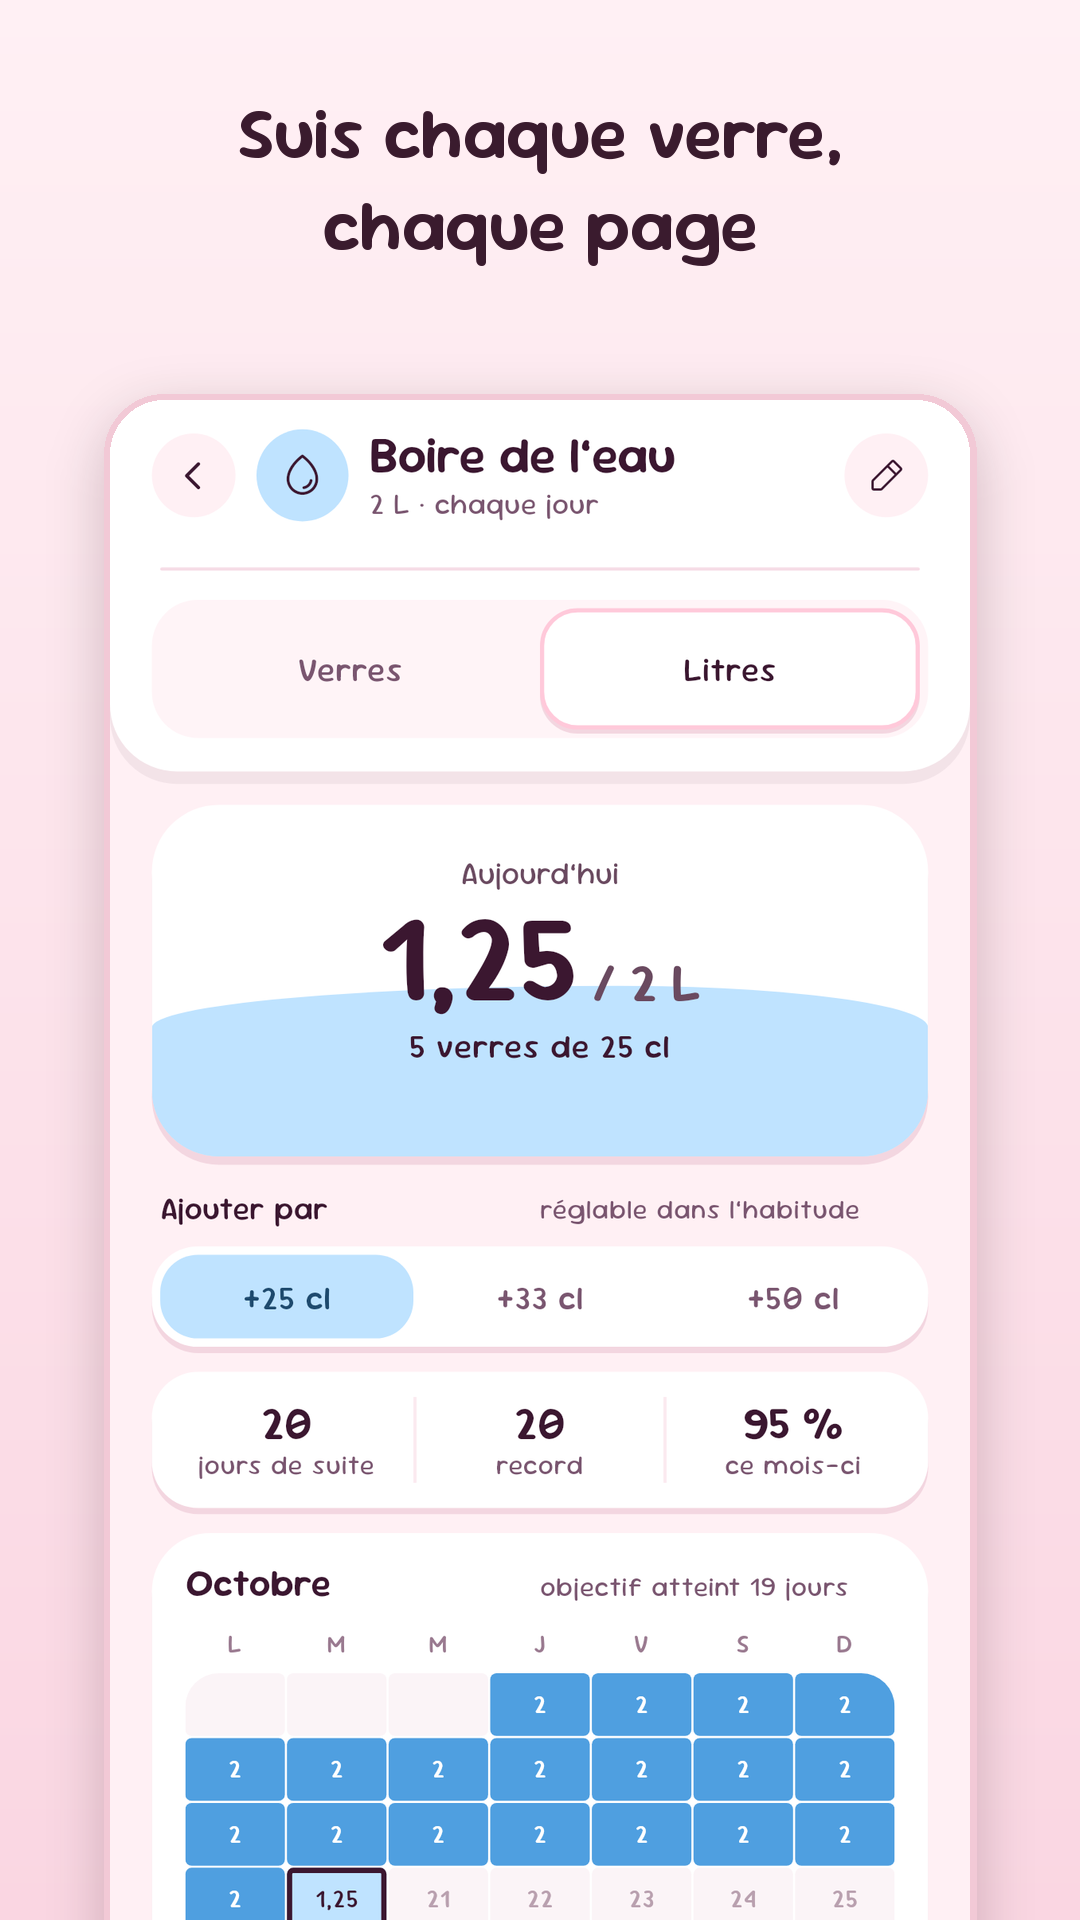
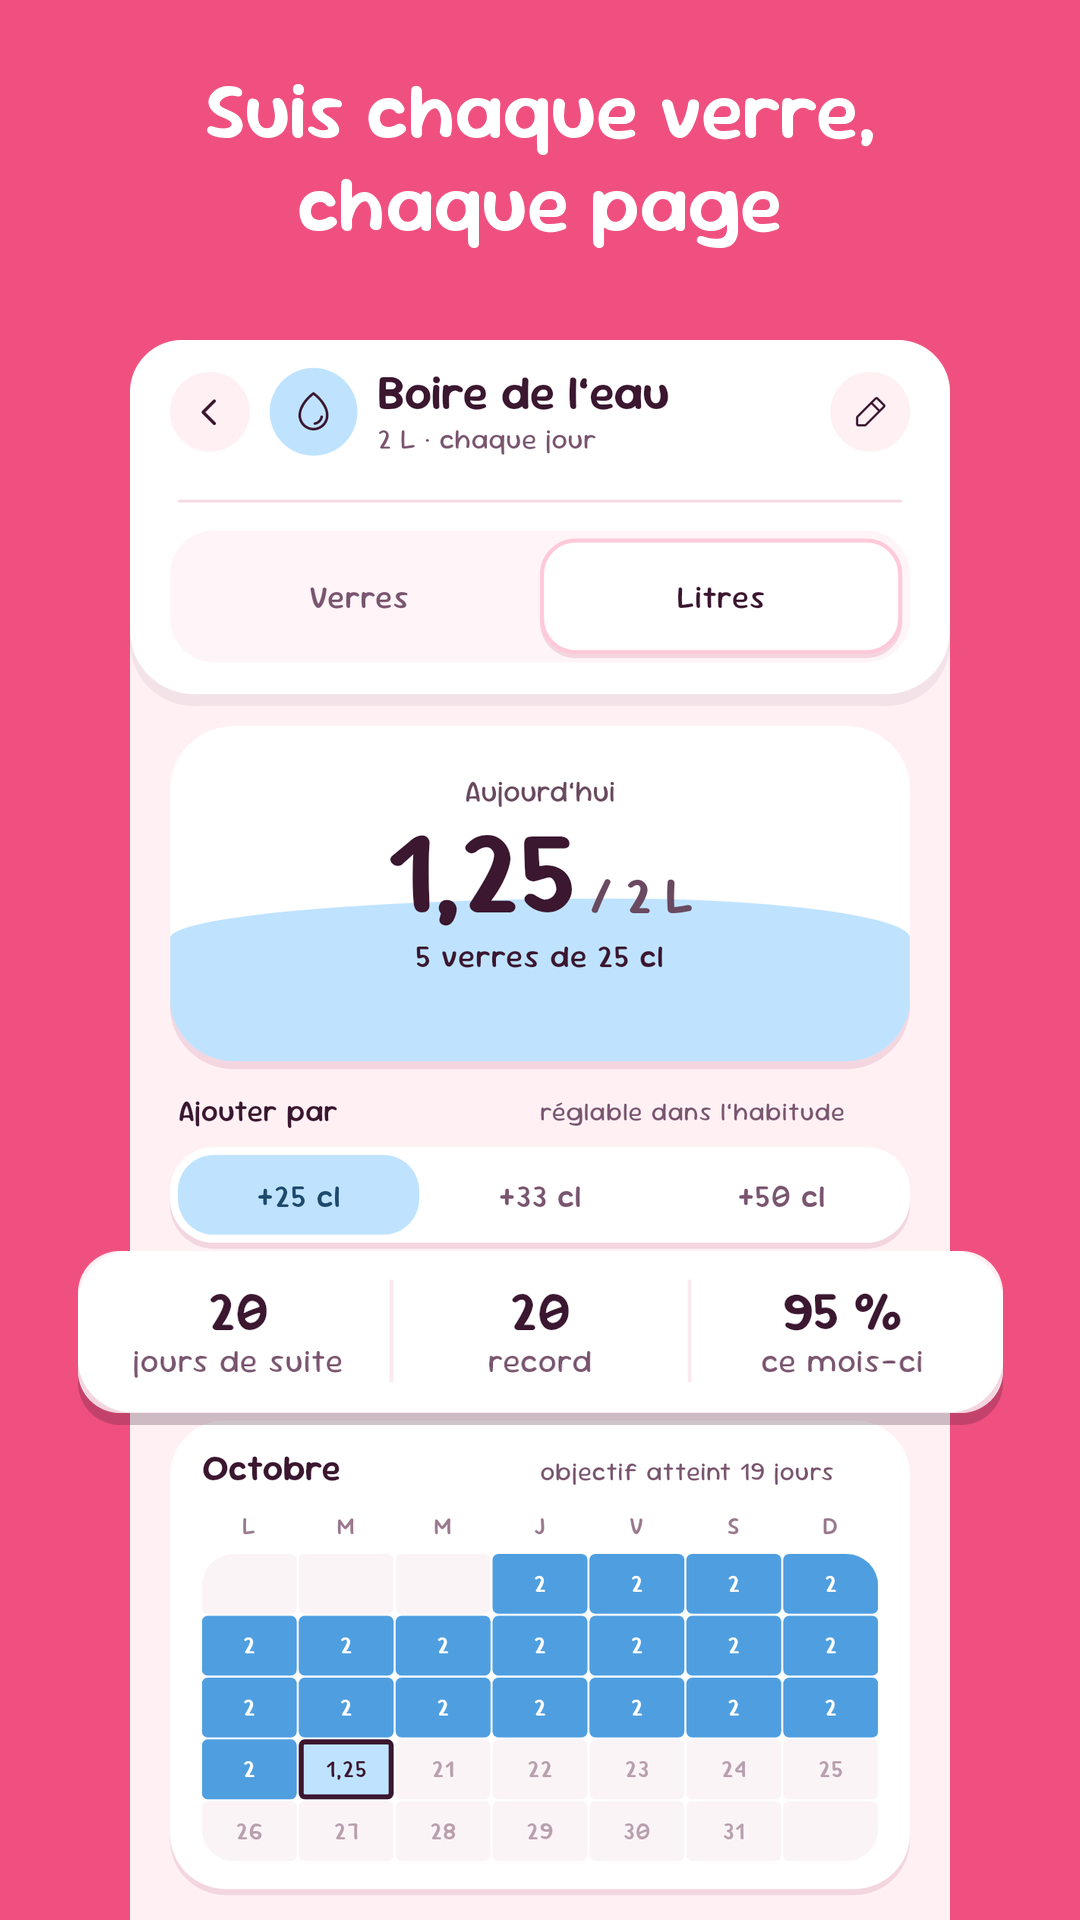
feat(store): nouveaux visuels Play, direction pop-out
Feature graphic centrée sur le slogan, sans copie de l'icône, et captures
sur fond rose avec un élément réel de l'appli agrandi sur chacune. Les
légendes ne portent plus d'argument de prix, conformément aux consignes
Play sur les éléments graphiques.

frame.py vérifie la limite de 20 % des légendes, la largeur des lignes,
le format et la taille de chaque image.

diff --git a/tool/store/frame.py b/tool/store/frame.py
@@ -8,7 +8,7 @@ Reads build/store/raw/{fr,en}/*.png, writes docs/store/.
 
 from pathlib import Path
 
-from PIL import Image, ImageDraw, ImageFilter, ImageFont
+from PIL import Image, ImageDraw, ImageFont
 
 ROOT = Path(__file__).resolve().parents[2]
 RAW = ROOT / "build/store/raw"
@@ -16,120 +16,147 @@ OUT = ROOT / "docs/store"
 FONT = ROOT / "assets/fonts/SourGummy-SemiBold.ttf"
 ICON = ROOT / "assets/icon/icon.png"
 
-BG_TOP, BG_BOTTOM = (255, 240, 244), (250, 214, 226)
-INK = (58, 27, 46)
-ACCENT, ACCENT_DEEP = (224, 89, 126), (196, 62, 104)
-EDGE = (242, 201, 214)
+ACCENT, ACCENT_DEEP = (240, 80, 127), (201, 61, 104)
+POP_SHADOW = (59, 23, 48, 64)
+LILAC, SKY, MINT, LEMON, PEACH = (
+    (220, 200, 255),
+    (191, 227, 255),
+    (182, 240, 210),
+    (255, 240, 154),
+    (255, 203, 164),
+)
 
+# Play guidance: no price or ranking claims ("Free", "#1"…) in these images.
 CAPTIONS = {
     "fr": {
-        "01-today": "Tes habitudes du jour, en un coup d’œil",
-        "02-timer": "Un minuteur pour chaque séance",
-        "03-detail": "Suis chaque verre, chaque page",
-        "04-progress": "Regarde tes progrès grandir",
-        "05-trophies": "Badges, défis et séries à débloquer",
-        "06-create": "Une nouvelle habitude en 3 étapes",
+        "01-today": "Maintiens appuyé.\nEncore un pas de fait.",
+        "02-timer": "Chaque minute compte\npour ta semaine",
+        "03-detail": "Suis chaque verre,\nchaque page",
+        "04-progress": "Regarde tes\nprogrès grandir",
+        "05-trophies": "Badges, défis et séries\nà débloquer",
+        "06-create": "Une nouvelle habitude\nen 3 étapes",
     },
     "en": {
-        "01-today": "Today’s habits at a glance",
-        "02-timer": "A timer for every session",
-        "03-detail": "Track every glass, every page",
-        "04-progress": "Watch your progress grow",
-        "05-trophies": "Badges, challenges and streaks",
-        "06-create": "A new habit in 3 steps",
+        "01-today": "Press and hold.\nOne more step done.",
+        "02-timer": "Every minute counts\ntoward your week",
+        "03-detail": "Track every glass,\nevery page",
+        "04-progress": "Watch your\nprogress grow",
+        "05-trophies": "Badges, challenges\nand streaks",
+        "06-create": "A new habit\nin 3 steps",
     },
 }
 TAGLINE = {
-    "fr": "Petites habitudes, grandes séries",
-    "en": "Small steps, lasting habits",
+    "fr": "Petites habitudes,\ngrandes séries",
+    "en": "Small steps,\nlasting habits",
 }
 
+# UI element enlarged out of each screen: raw box, corner radius, zoom.
+POPS = {
+    "01-today": ((53, 699, 1027, 866), 84, 0.95),
+    "02-timer": ((53, 1602, 1027, 1866), 44, 0.95),
+    "03-detail": ((53, 1222, 1027, 1392), 44, 0.95),
+    "04-progress": ((53, 741, 1027, 1016), 44, 0.92),
+    # Wraps a line above the week bars in French, which pushes them down.
+    ("fr", "04-progress"): ((53, 796, 1027, 1071), 44, 0.92),
+    "05-trophies": ((553, 509, 1027, 678), 44, 1.0),
+    "06-create": ((53, 1276, 1027, 1418), 44, 0.95),
+}
+
+# Edge pills of the feature graphic: x, y, colour.
+PILLS = [
+    (-80, 44, LILAC),
+    (-130, 172, LEMON),
+    (-60, 372, MINT),
+    (860, 64, SKY),
+    (900, 244, PEACH),
+    (836, 380, LILAC),
+]
+
 W, H = 1080, 1920
+SCREEN_W, SCREEN_TOP = 820, 340  # hides the nav bar, which starts at raw y 2148
+SCALE = 4  # shapes are drawn large and scaled down to smooth their edges
 
 
-def gradient(size, top, bottom):
+def rounded_mask(size, radius):
     w, h = size
-    img = Image.new("RGB", size, top)
-    draw = ImageDraw.Draw(img)
-    for y in range(h):
-        t = y / max(h - 1, 1)
-        draw.line(
-            [(0, y), (w, y)],
-            fill=tuple(round(a + (b - a) * t) for a, b in zip(top, bottom)),
-        )
-    return img
-
-
-def wrap(draw, text, font, width):
-    """Splits [text] into at most two balanced lines that fit [width]."""
-    if draw.textlength(text, font=font) <= width:
-        return [text]
-    words = text.split()
-    best = None
-    for i in range(1, len(words)):
-        a, b = " ".join(words[:i]), " ".join(words[i:])
-        widest = max(draw.textlength(a, font=font), draw.textlength(b, font=font))
-        if widest <= width and (best is None or widest < best[0]):
-            best = (widest, [a, b])
-    return best[1] if best else [text]
-
-
-def rounded(img, radius):
-    mask = Image.new("L", img.size, 0)
+    mask = Image.new("L", (w * SCALE, h * SCALE), 0)
     ImageDraw.Draw(mask).rounded_rectangle(
-        [0, 0, img.width - 1, img.height + radius], radius, fill=255
+        [0, 0, w * SCALE - 1, h * SCALE - 1], radius * SCALE, fill=255
     )
-    out = img.convert("RGBA")
-    out.putalpha(mask)
-    return out
+    return mask.resize(size, Image.LANCZOS)
 
 
-def framed(raw: Path, caption: str) -> Image.Image:
-    canvas = gradient((W, H), BG_TOP, BG_BOTTOM).convert("RGBA")
+def popped(canvas, screen, box, radius, zoom):
+    """Pastes [box] of the raw [screen] over its place in the frame, enlarged."""
+    x0, y0, x1, y1 = box
+    scale = SCREEN_W / screen.width
+    size = (round((x1 - x0) * zoom), round((y1 - y0) * zoom))
+    left = round((W - SCREEN_W) / 2 + (x0 + x1) / 2 * scale - size[0] / 2)
+    top = round(SCREEN_TOP + (y0 + y1) / 2 * scale - size[1] / 2)
+    mask = rounded_mask(size, round(radius * zoom))
+
+    shadow = Image.new("RGBA", size, POP_SHADOW)
+    shadow.putalpha(mask.point(lambda a: a * POP_SHADOW[3] // 255))
+    canvas.alpha_composite(shadow, (left, top + 12))
+
+    crop = screen.crop(box).resize(size, Image.LANCZOS).convert("RGBA")
+    crop.putalpha(mask)
+    canvas.alpha_composite(crop, (left, top))
+
+
+def framed(raw: Path, caption: str, pop) -> Image.Image:
+    canvas = Image.new("RGBA", (W, H), ACCENT)
     draw = ImageDraw.Draw(canvas)
-    font = ImageFont.truetype(str(FONT), 72)
-    lines = wrap(draw, caption, font, 900)
-    y = 150 if len(lines) == 1 else 110
-    for line in lines:
-        draw.text((W / 2, y), line, font=font, fill=INK, anchor="mt")
-        y += 92
+    font = ImageFont.truetype(str(FONT), 80)
+    y = 84
+    for line in caption.split("\n"):
+        assert draw.textlength(line, font=font) <= 960, f"too wide: {line}"
+        draw.text((W / 2, y), line, font=font, fill="white", anchor="mt")
+        y += 94
+    assert y <= H * 0.2, f"caption over 20% of the image: {caption}"
 
-    screen = Image.open(raw).convert("RGB")
-    sw = 860
-    screen = screen.resize((sw, round(screen.height * sw / screen.width)), Image.LANCZOS)
-    top = 400
-    screen = screen.crop((0, 0, sw, H - top))  # bleeds off the bottom edge
-    phone = rounded(screen, 54)
+    source = Image.open(raw).convert("RGB")
+    sh = round(source.height * SCREEN_W / source.width)
+    screen = source.resize((SCREEN_W, sh), Image.LANCZOS)
+    screen = screen.crop((0, 0, SCREEN_W, H - SCREEN_TOP))  # bleeds off the bottom edge
+    mask = rounded_mask((SCREEN_W, H - SCREEN_TOP + 60), 52).crop(
+        (0, 0, SCREEN_W, H - SCREEN_TOP)
+    )
+    phone = screen.convert("RGBA")
+    phone.putalpha(mask)
+    canvas.alpha_composite(phone, ((W - SCREEN_W) // 2, SCREEN_TOP))
 
-    shadow = Image.new("RGBA", (W, H), (0, 0, 0, 0))
-    ImageDraw.Draw(shadow).rounded_rectangle(
-        [(W - sw) / 2, top + 18, (W + sw) / 2, H + 60], 54, fill=(150, 60, 95, 70)
-    )
-    canvas.alpha_composite(shadow.filter(ImageFilter.GaussianBlur(28)))
-    ImageDraw.Draw(canvas).rounded_rectangle(
-        [(W - sw) / 2 - 6, top - 6, (W + sw) / 2 + 6, H + 60], 60, fill=EDGE
-    )
-    canvas.alpha_composite(phone, ((W - sw) // 2, top))
+    popped(canvas, source, *pop)
     return canvas.convert("RGB")
 
 
 def feature_graphic(lang: str) -> Image.Image:
-    canvas = gradient((1024, 500), ACCENT, ACCENT_DEEP).convert("RGBA")
-    icon = Image.open(ICON).convert("RGBA").resize((300, 300), Image.LANCZOS)
-    mask = Image.new("L", icon.size, 0)
-    ImageDraw.Draw(mask).rounded_rectangle([0, 0, 299, 299], 66, fill=255)
-    icon.putalpha(mask)
-    canvas.alpha_composite(icon, (90, 100))
+    canvas = Image.new("RGB", (1024 * SCALE, 500 * SCALE), ACCENT)
     draw = ImageDraw.Draw(canvas)
-    draw.text((450, 170), "Little Steps", font=ImageFont.truetype(str(FONT), 92),
-              fill="white", anchor="ls")
-    tagline = ImageFont.truetype(str(FONT), 38)
-    lines = wrap(draw, TAGLINE[lang], tagline, 520)
-    y = 250
-    for line in lines:
-        draw.text((452, y), line, font=tagline, fill=(255, 236, 242), anchor="ls")
-        y += 52
-    return canvas.convert("RGB")
+    for x, y, color in PILLS:
+        for offset, fill in ((8, ACCENT_DEEP), (0, color)):
+            draw.rounded_rectangle(
+                [
+                    x * SCALE,
+                    (y + offset) * SCALE,
+                    (x + 260) * SCALE,
+                    (y + offset + 84) * SCALE,
+                ],
+                42 * SCALE,
+                fill=fill,
+            )
+
+    lines = TAGLINE[lang].split("\n")
+    size = 100
+    while True:  # French runs longer; it must stay clear of the middle pills
+        font = ImageFont.truetype(str(FONT), size * SCALE)
+        if max(draw.textlength(l, font=font) for l in lines) <= 680 * SCALE:
+            break
+        size -= 2
+    for i, line in enumerate(lines):
+        y = 250 + (i - 0.5) * size * 1.12
+        draw.text((512 * SCALE, y * SCALE), line, font=font, fill="white", anchor="mm")
+    return canvas.resize((1024, 500), Image.LANCZOS)
 
 
 def main():
@@ -137,8 +164,13 @@ def main():
         folder = OUT / "screenshots" / lang
         folder.mkdir(parents=True, exist_ok=True)
         for i, (name, caption) in enumerate(captions.items(), start=1):
-            framed(RAW / lang / f"{name}.png", caption).save(folder / f"{i:02d}.png")
-        feature_graphic(lang).save(OUT / f"feature-graphic-{lang}.png")
+            pop = POPS.get((lang, name), POPS[name])
+            shot = framed(RAW / lang / f"{name}.png", caption, pop)
+            assert shot.size == (W, H) and shot.mode == "RGB"
+            shot.save(folder / f"{i:02d}.png")
+        graphic = feature_graphic(lang)
+        assert graphic.size == (1024, 500) and graphic.mode == "RGB"
+        graphic.save(OUT / f"feature-graphic-{lang}.png")
     Image.open(ICON).convert("RGB").resize((512, 512), Image.LANCZOS).save(
         OUT / "icon-512.png"
     )
